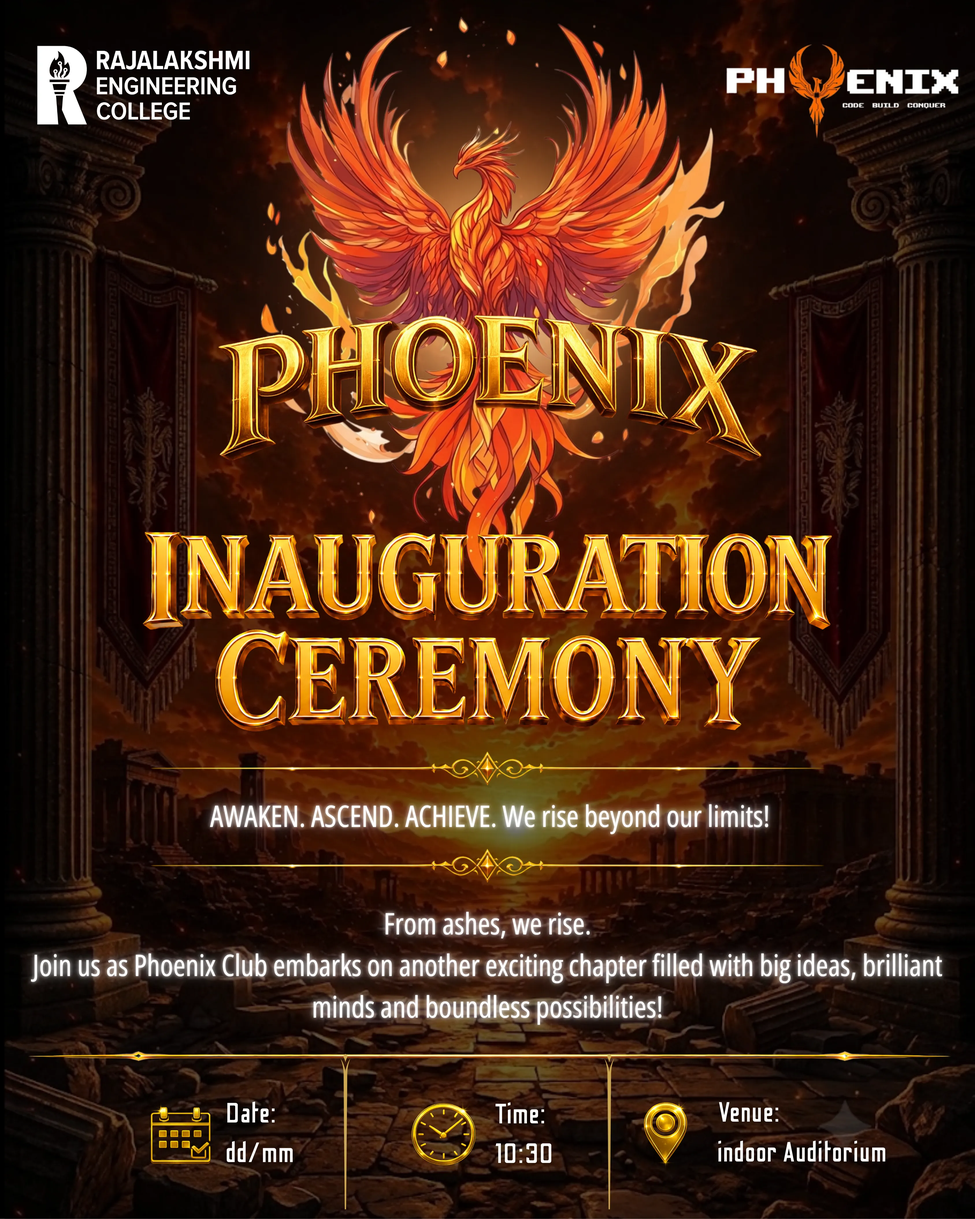
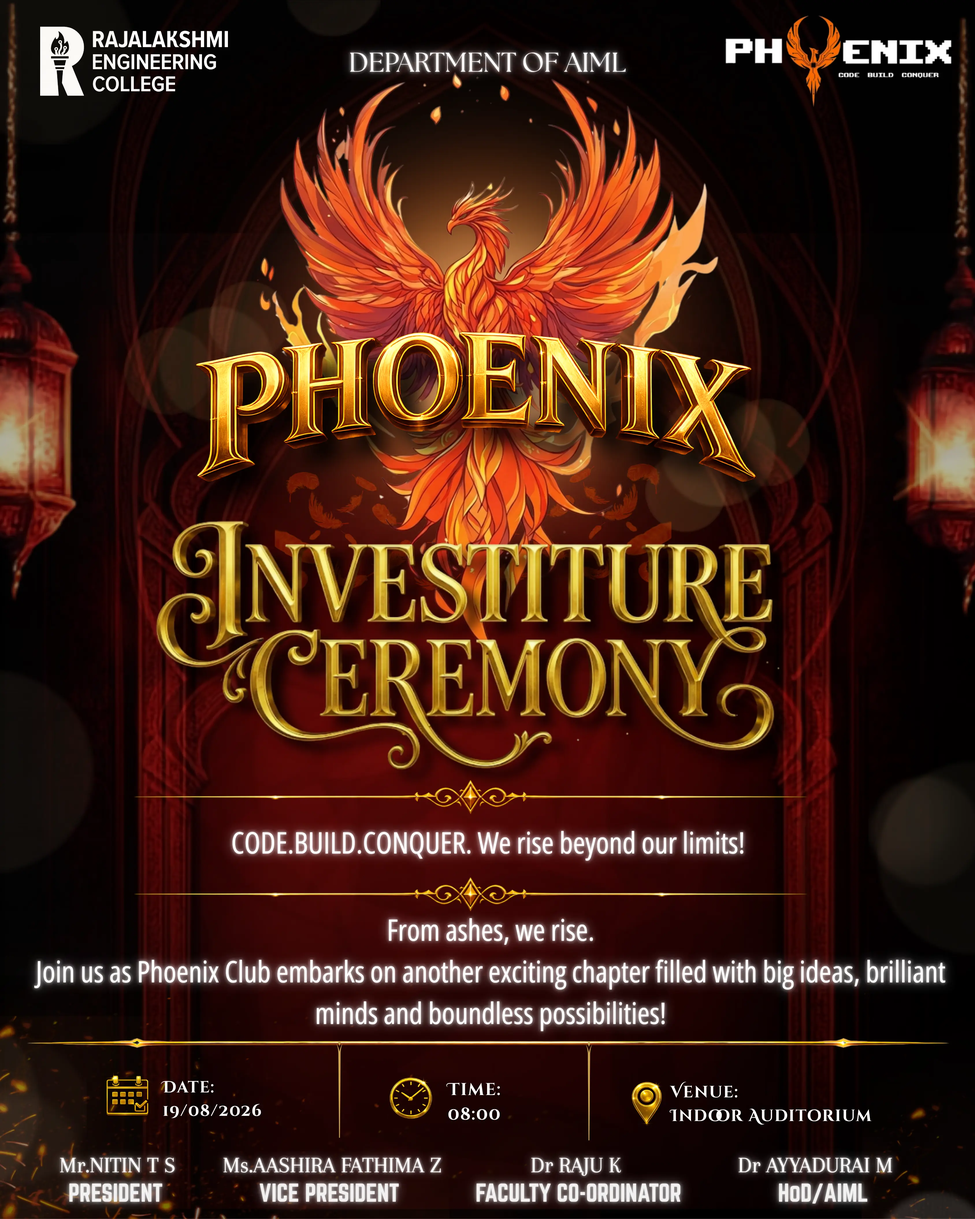
COMMIT

diff --git a/style.css b/style.css
@@ -83,6 +83,23 @@ a { text-decoration: none; color: inherit; }
     pointer-events: none;
 }
 
+/* ── STATIC BACKGROUND IMAGE ─────────────────────────── */
+.static-bg-image {
+    position: fixed;
+    top: 0;
+    left: 0;
+    width: 100vw;
+    height: 100vh;
+    background-image: url('assets/background.webp'); /* Replace with your actual image filename */
+    background-size: cover;
+    background-position: center;
+    background-repeat: no-repeat;
+    opacity: 0.4; /* Adjust for transparency */
+    filter: blur(8px); /* Adjust for blurriness */
+    z-index: -5; /* Above bg-canvas (-10), behind content */
+    pointer-events: none;
+}
+
 #kinetic-grid-canvas {
     position: fixed;
     top: 0; left: 0;

diff --git a/index.html b/index.html
@@ -21,6 +21,9 @@
     <!-- Background Canvas: cables + embers -->
     <canvas id="bg-canvas"></canvas>
 
+    <!-- Static Background Image -->
+    <div class="static-bg-image"></div>
+
     <!-- Kinetic Grid Canvas: reactive grid trail -->
     <canvas id="kinetic-grid-canvas"></canvas>
 
